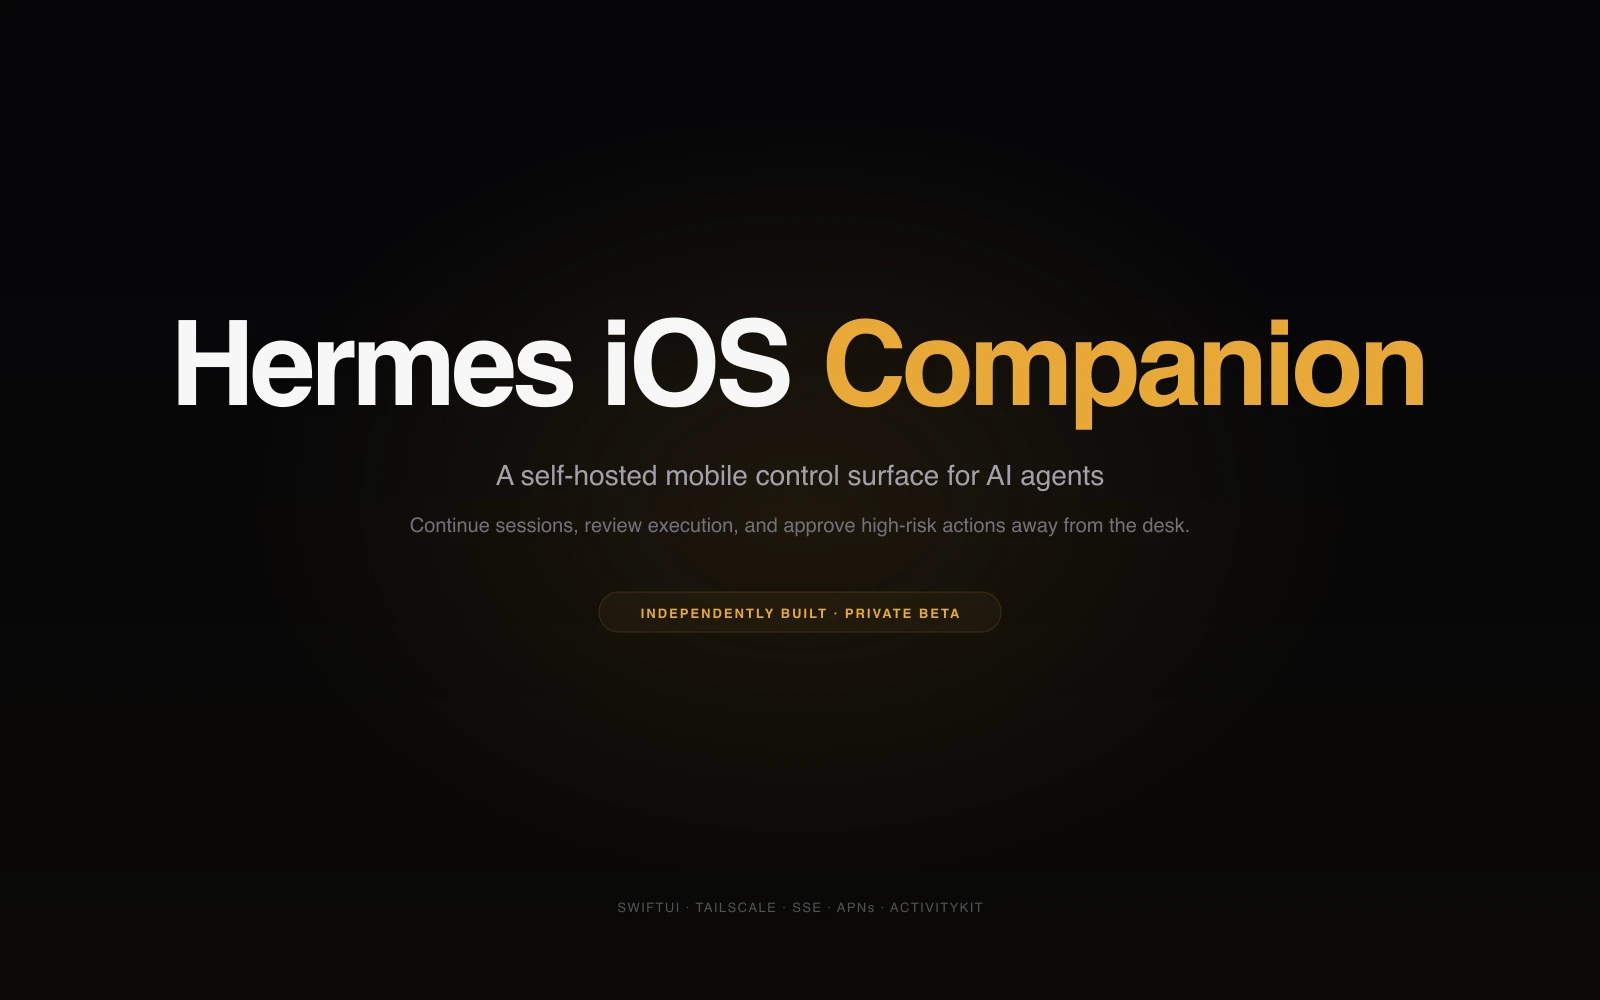
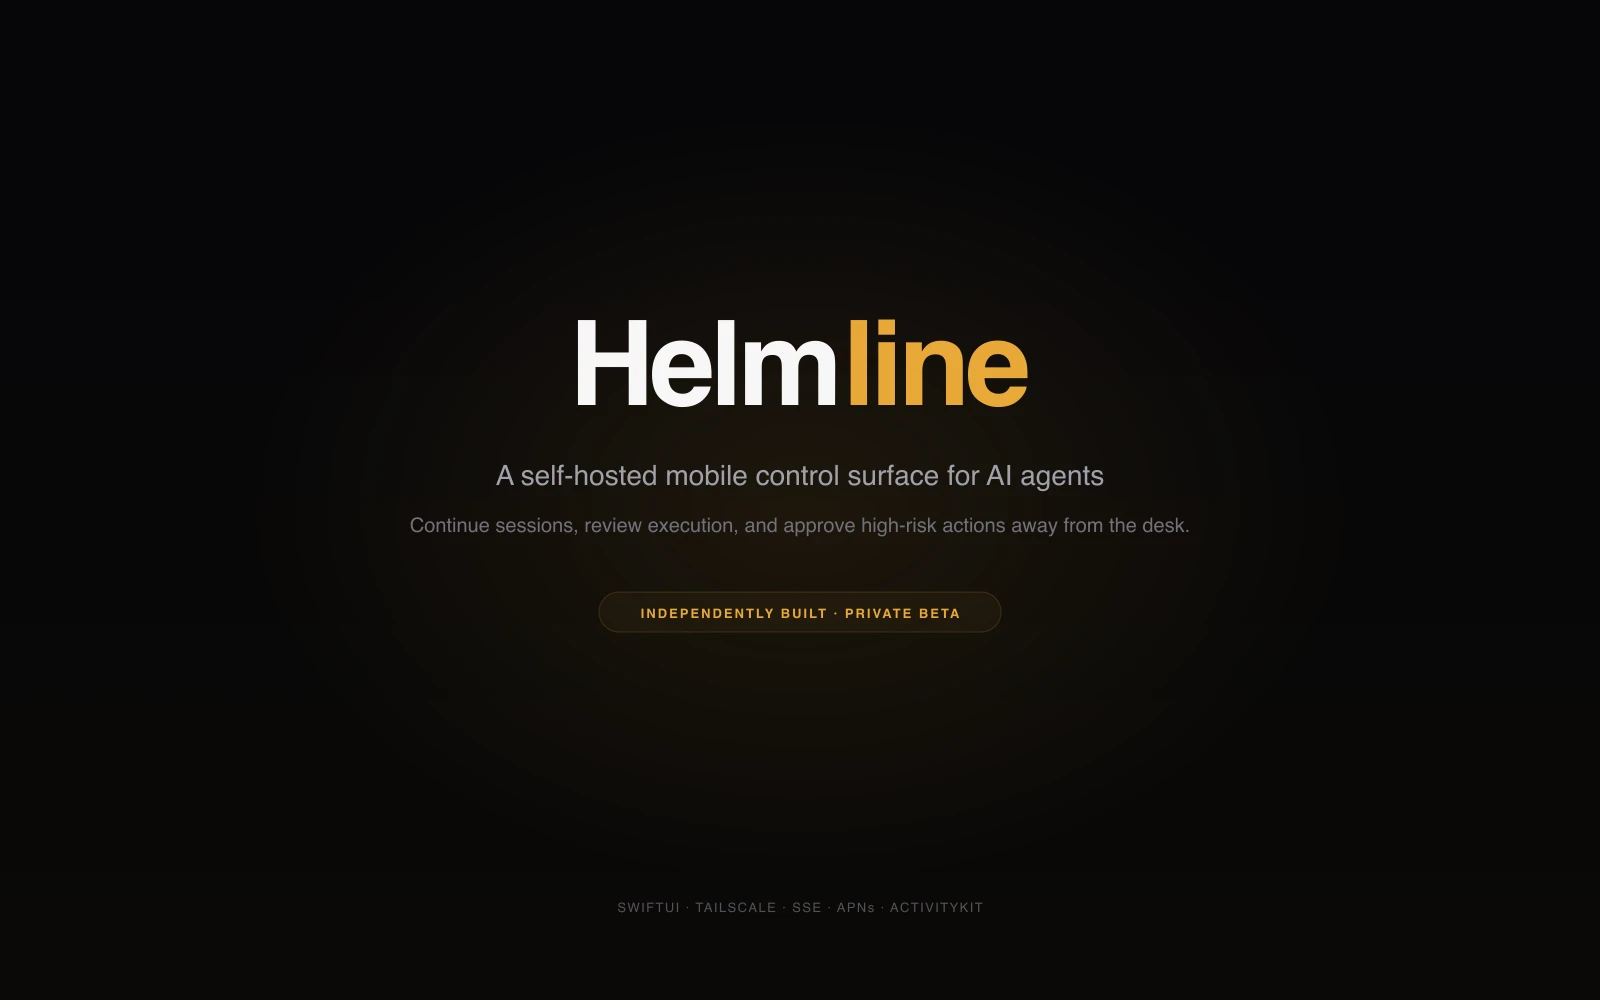
brand: rename public iOS companion to Helmline (#3)

Changed region(s): [[0.0938, 0.31, 0.9062, 0.434]]

diff --git a/app/data/content/en/projects/hermes-ios-companion.js b/app/data/content/en/projects/hermes-ios-companion.js
@@ -1,15 +1,15 @@
 export const hermesIosCompanionProject = {
   slug: 'hermes-ios-companion',
-  title: 'Hermes iOS Companion',
+  title: 'Helmline',
   description:
     'An independently built, self-hosted iOS control surface for Hermes Agent. It keeps conversations, execution status, security approvals, voice input, and iOS system surfaces connected across private Mac and VPS instances.',
   roles: ['Product Design', 'SwiftUI', 'iOS Systems', 'AI Agent UX', 'Security', 'Reliability'],
   summary: {
-    title: 'Hermes iOS Companion',
+    title: 'Helmline',
     description:
       'A self-hosted iOS companion I designed and built to continue AI agent sessions, inspect tool execution, approve sensitive actions, and receive task status from private Mac and VPS instances.',
     modelType: 'phone',
-    modelAlt: 'Hermes iOS Companion approval and execution trace screens running with sanitized simulator fixtures',
+    modelAlt: 'Helmline approval and execution trace screens running with sanitized simulator fixtures',
     quickFacts: [
       { label: 'Role', value: 'Solo designer and iOS engineer' },
       { label: 'Stack', value: 'SwiftUI, SSE, APNs, ActivityKit, Tailscale' },
@@ -21,13 +21,13 @@ export const hermesIosCompanionProject = {
     {
       type: 'hero-image',
       image: 'hermesIosHeroEn',
-      alt: 'Hermes iOS Companion, a self-hosted mobile control surface for AI agents',
+      alt: 'Helmline, a self-hosted mobile control surface for AI agents',
     },
     {
       type: 'text',
       heading: 'Overview',
       body: [
-        'Hermes iOS Companion is an independently built mobile control surface for the open-source Hermes Agent. It lets me continue conversations, inspect tool execution, handle security approvals, use voice input, and follow long-running tasks when I am away from the computer that hosts the agent.',
+        'Helmline is an independently built mobile control surface for the open-source Hermes Agent. It lets me continue conversations, inspect tool execution, handle security approvals, use voice input, and follow long-running tasks when I am away from the computer that hosts the agent.',
         'The project is a deployed personal system and private beta, not a general consumer chat app. I designed and built the iOS client, its interaction model, gateway protocol integration, security boundaries, and Apple platform surfaces. It is not an official Nous Research product.',
       ],
     },
@@ -35,7 +35,7 @@ export const hermesIosCompanionProject = {
       type: 'image',
       image: 'hermesIosCoreProductEn',
       heading: 'A Mobile Control Surface, Not a Chat Wrapper',
-      alt: 'Sanitized current-main Hermes iOS Companion screens showing grouped sessions, chat execution, and security approvals',
+      alt: 'Sanitized current-main Helmline screens showing grouped sessions, chat execution, and security approvals',
       body: [
         'The primary workflows are organized around agent continuity rather than message volume. Sessions stay grouped by project and instance, tool execution remains inspectable without taking over the conversation, and approval requests surface the command and authorization scope before a decision.',
         'These screens were captured from a current-main Simulator build using fixture sessions, example commands, and isolated instance names. No production endpoint, credential, or private conversation is present.',
@@ -163,7 +163,7 @@ export const hermesIosCompanionProject = {
       type: 'text',
       heading: 'Known Limits and Release Boundary',
       body: [
-        'Hermes iOS Companion is a private beta and deployed personal system. It is not on the App Store, is not publicly available, and is not presented as an official Hermes app. Setup still assumes a self-hosted Hermes Gateway and Tailscale access, which is appropriate for the current audience but not consumer onboarding.',
+        'Helmline is a private beta and deployed personal system. It is not on the App Store, is not publicly available, and is not presented as an official Hermes app. Setup still assumes a self-hosted Hermes Gateway and Tailscale access, which is appropriate for the current audience but not consumer onboarding.',
         'Public screenshots use example data and sanitized fixtures. Live Gateway URLs, API keys, pairing payloads, Tailscale domains, device tokens, APNs credentials, and private conversation content are intentionally excluded.',
       ],
     },
@@ -173,7 +173,7 @@ export const hermesIosCompanionProject = {
       backgroundOverlayOpacity: 0.82,
       heading: 'What This Project Demonstrates',
       body: [
-        'Hermes iOS Companion is my clearest end-to-end example of combining AI systems, UX judgment, native iOS engineering, backend protocol work, security, and real deployment into one coherent product.',
+        'Helmline is my clearest end-to-end example of combining AI systems, UX judgment, native iOS engineering, backend protocol work, security, and real deployment into one coherent product.',
         'The main lesson was that an AI companion should not imitate the runtime. It should translate the runtime into the smallest set of mobile interactions that preserve continuity, awareness, and trust.',
         'Built independently by Prince Niu as a companion for the open-source Hermes Agent. Not an official Nous Research product.',
       ],

diff --git a/app/data/content/zh/projects/hermes-ios-companion.js b/app/data/content/zh/projects/hermes-ios-companion.js
@@ -1,15 +1,15 @@
 export const hermesIosCompanionProject = {
   slug: 'hermes-ios-companion',
-  title: 'Hermes iOS Companion',
+  title: 'Helmline',
   description:
     '我独立设计和开发的自托管 iOS 移动控制端。它连接 Mac 与 VPS 上的 Hermes Agent，让用户在 iPhone 上继续会话、查看工具执行、确认高风险操作、使用语音输入，并接收系统级任务状态。',
   roles: ['产品设计', 'SwiftUI', 'iOS 系统集成', 'AI Agent UX', '安全', '可靠性'],
   summary: {
-    title: 'Hermes iOS Companion',
+    title: 'Helmline',
     description:
       '我独立设计和开发的自托管 iOS 移动控制端，用于继续 AI Agent 会话、查看工具执行、处理安全审批，并跟踪 Mac 与 VPS 私有实例中的任务状态。',
     modelType: 'phone',
-    modelAlt: 'Hermes iOS Companion 使用脱敏模拟器 fixture 展示审批与执行过程界面',
+    modelAlt: 'Helmline 使用脱敏模拟器 fixture 展示审批与执行过程界面',
     quickFacts: [
       { label: '角色', value: '独立产品设计与 iOS 开发' },
       { label: '技术', value: 'SwiftUI、SSE、APNs、ActivityKit、Tailscale' },
@@ -21,13 +21,13 @@ export const hermesIosCompanionProject = {
     {
       type: 'hero-image',
       image: 'hermesIosHeroZh',
-      alt: 'Hermes iOS Companion，自托管 AI Agent 的移动控制端',
+      alt: 'Helmline，自托管 AI Agent 的移动控制端',
     },
     {
       type: 'text',
       heading: '项目概览',
       body: [
-        'Hermes iOS Companion 是我为开源 Hermes Agent 独立设计和开发的移动控制端。离开运行 Agent 的电脑后，我仍可以继续会话、查看工具执行、处理安全审批、使用语音输入，并跟踪长时间任务。',
+        'Helmline 是我为开源 Hermes Agent 独立设计和开发的移动控制端。离开运行 Agent 的电脑后，我仍可以继续会话、查看工具执行、处理安全审批、使用语音输入，并跟踪长时间任务。',
         '它是已经部署在个人系统中的 private beta，不是普通聊天 App。我负责 iOS 客户端、交互模型、Gateway 协议集成、安全边界和 Apple 系统能力。它不是 Nous Research 官方产品。',
       ],
     },
@@ -35,7 +35,7 @@ export const hermesIosCompanionProject = {
       type: 'image',
       image: 'hermesIosCoreProductZh',
       heading: '移动控制端，而不是聊天框的缩小版',
-      alt: '当前 main 的脱敏 Hermes iOS Companion 界面，展示项目分组会话、聊天执行过程和安全审批',
+      alt: '当前 main 的脱敏 Helmline 界面，展示项目分组会话、聊天执行过程和安全审批',
       body: [
         '主要流程围绕 Agent 连续性组织，而不是围绕消息数量组织。会话按项目与实例分组，工具执行可检查但不会占据整个对话，审批请求则在用户决定前明确展示命令和授权范围。',
         '这些界面来自当前 main 的 Simulator build，使用 fixture 会话、示例命令和隔离的实例名称，不包含生产 endpoint、凭证或私人会话。',
@@ -163,7 +163,7 @@ export const hermesIosCompanionProject = {
       type: 'text',
       heading: '已知限制与发布边界',
       body: [
-        'Hermes iOS Companion 是 private beta 和已经部署的个人系统。它没有上架 App Store，也不是公开下载产品，更不是官方 Hermes App。当前配置仍假设用户拥有自托管 Hermes Gateway 与 Tailscale 网络，这适合目前的使用范围，但不是面向大众的 onboarding。',
+        'Helmline 是 private beta 和已经部署的个人系统。它没有上架 App Store，也不是公开下载产品，更不是官方 Hermes App。当前配置仍假设用户拥有自托管 Hermes Gateway 与 Tailscale 网络，这适合目前的使用范围，但不是面向大众的 onboarding。',
         '公开截图只使用 example data 与脱敏 fixture。真实 Gateway URL、API key、配对 payload、Tailscale 域名、设备 token、APNs 凭证和私人会话内容都不会出现在公开材料中。',
       ],
     },
@@ -173,7 +173,7 @@ export const hermesIosCompanionProject = {
       backgroundOverlayOpacity: 0.82,
       heading: '这个项目证明了什么',
       body: [
-        'Hermes iOS Companion 是我目前最完整的端到端案例。它把 AI 系统、UX 判断、原生 iOS 开发、后端协议、安全和真实部署组合成一个完整产品。',
+        'Helmline 是我目前最完整的端到端案例。它把 AI 系统、UX 判断、原生 iOS 开发、后端协议、安全和真实部署组合成一个完整产品。',
         '最重要的产品结论是：AI Companion 不应该模仿 Runtime，而应该把 Runtime 翻译成最少的一组移动交互，同时保留连续性、状态感知和信任。',
         'Built independently by Prince Niu，作为开源 Hermes Agent 的 companion 设计与开发。Not an official Nous Research product。',
       ],

diff --git a/app/routes/hermes-companion-privacy/privacy.jsx b/app/routes/hermes-companion-privacy/privacy.jsx
@@ -7,15 +7,15 @@ import styles from './privacy.module.css';
 
 const policies = {
   en: {
-    title: 'Hermes iOS Companion Privacy Policy',
-    effective: 'Effective August 17, 2026',
+    title: 'Helmline Privacy Policy',
+    effective: 'Effective August 26, 2026',
     intro:
-      'Hermes iOS Companion is an independently developed, unofficial iPhone client for Hermes Agent. It is not developed, sponsored, or endorsed by Nous Research.',
+      'Helmline is an independently developed, unofficial iPhone client for Hermes Agent. It is not developed, sponsored, or endorsed by Nous Research.',
     sections: [
       {
         heading: 'Summary',
         paragraphs: [
-          'Hermes iOS Companion does not provide a developer-hosted account, analytics service, advertising system, or tracking service. You connect the app to a Hermes Gateway that you select and control. Apart from Apple platform services such as push notifications, the app sends content only to that Gateway as needed to perform actions you request.',
+          'Helmline does not provide a developer-hosted account, analytics service, advertising system, or tracking service. You connect the app to a Hermes Gateway that you select and control. Apart from Apple platform services such as push notifications, the app sends content only to that Gateway as needed to perform actions you request.',
         ],
       },
       {
@@ -117,15 +117,15 @@ const policies = {
     ],
   },
   zh: {
-    title: 'Hermes iOS Companion 隐私政策',
-    effective: '生效日期：2026 年 8 月 17 日',
+    title: 'Helmline 隐私政策',
+    effective: '生效日期：2026 年 8 月 26 日',
     intro:
-      'Hermes iOS Companion 是由独立开发者制作的非官方 Hermes Agent iPhone 客户端，并非由 Nous Research 开发、赞助或背书。',
+      'Helmline 是由独立开发者制作的非官方 Hermes Agent iPhone 客户端，并非由 Nous Research 开发、赞助或背书。',
     sections: [
       {
         heading: '概要',
         paragraphs: [
-          'Hermes iOS Companion 不提供由开发者托管的账号、分析服务、广告系统或追踪服务。你需要连接自己选择并控制的 Hermes Gateway。除 Apple 推送通知等系统服务外，App 只会在执行你发起的操作时，将所需内容发送到你选择的 Gateway。',
+          'Helmline 不提供由开发者托管的账号、分析服务、广告系统或追踪服务。你需要连接自己选择并控制的 Hermes Gateway。除 Apple 推送通知等系统服务外，App 只会在执行你发起的操作时，将所需内容发送到你选择的 Gateway。',
         ],
       },
       {
@@ -228,7 +228,7 @@ export function PrivacyPolicy() {
       <Section as="main" className={styles.page}>
         <article className={styles.article}>
           <header className={styles.header}>
-            <p className={styles.eyebrow}>Hermes iOS Companion</p>
+            <p className={styles.eyebrow}>Helmline</p>
             <Heading as="h1" level={2} className={styles.title}>
               {policy.title}
             </Heading>

diff --git a/app/data/content/en/projects/all-work.js b/app/data/content/en/projects/all-work.js
@@ -28,7 +28,7 @@ export const allWorkProject = {
         ],
         items: [
           {
-            title: 'Hermes iOS Companion',
+            title: 'Helmline',
             timeframe: '2026 · Private Beta',
             description:
               'Self-hosted iOS control surface for Hermes Agent with session continuity, tool execution, Face ID approvals, voice input, and system-level task status across Mac and VPS instances.',

diff --git a/app/routes/hermes-companion-privacy-zh.jsx b/app/routes/hermes-companion-privacy-zh.jsx
@@ -4,8 +4,8 @@ import { baseMeta } from '~/utils/meta';
 export const meta = () =>
   baseMeta({
     prefix: '牛拙Prince',
-    title: 'Hermes iOS Companion 隐私政策',
-    description: 'Hermes iOS Companion 非官方客户端的隐私政策。',
+    title: 'Helmline 隐私政策',
+    description: 'Helmline 非官方客户端的隐私政策。',
     path: '/zh/hermes-companion/privacy',
     locale: 'zh',
   });

diff --git a/app/data/content/zh/projects/all-work.js b/app/data/content/zh/projects/all-work.js
@@ -30,7 +30,7 @@ export const allWorkProject = {
       ],
       items: [
         {
-          title: 'Hermes iOS Companion',
+          title: 'Helmline',
           timeframe: '2026 · Private Beta',
           description:
             '自托管 Hermes Agent 的 iOS 移动控制端，支持会话连续性、工具执行、Face ID 审批、语音输入，以及 Mac 与 VPS 实例的系统级任务状态。',

diff --git a/app/routes/hermes-companion-privacy-en.jsx b/app/routes/hermes-companion-privacy-en.jsx
@@ -3,8 +3,8 @@ import { baseMeta } from '~/utils/meta';
 
 export const meta = () =>
   baseMeta({
-    title: 'Hermes iOS Companion Privacy Policy',
-    description: 'Privacy policy for the unofficial Hermes iOS Companion app.',
+    title: 'Helmline Privacy Policy',
+    description: 'Privacy policy for the unofficial Helmline app.',
     path: '/hermes-companion/privacy',
   });
 
